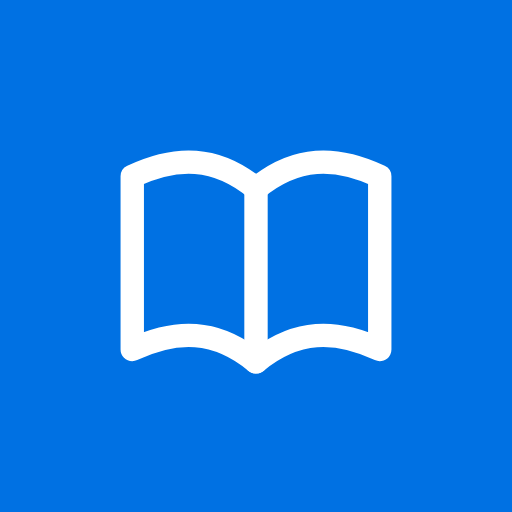
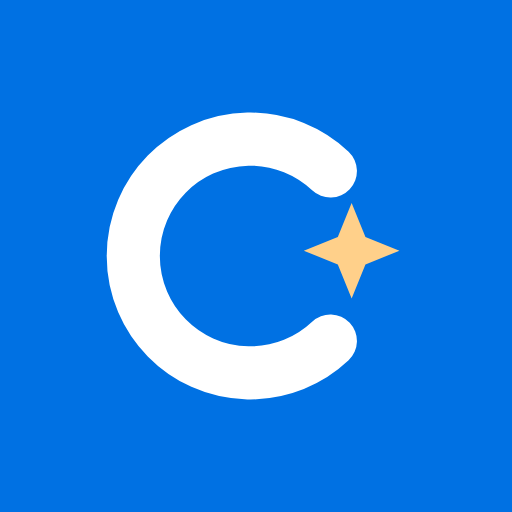
Логотип: ұшқынды «С» белгісі, белгішелер мен сілтеме карточкасы жаңартылды
Claude-Session: https://claude.ai/code/session_015ZnKadnVZH76tpYWXPujyB

Changed region(s): [[0.1875, 0.2188, 0.7812, 0.7812]]

diff --git a/public/admin.html b/public/admin.html
@@ -47,7 +47,7 @@ tr.flag td { background: var(--warn-bg); }
 <header class="nav">
   <div class="wrap">
     <a class="brand" href="/">
-      <svg viewBox="0 0 24 24" fill="none" stroke="currentColor" stroke-width="1.8" stroke-linecap="round" stroke-linejoin="round" aria-hidden="true"><path d="M3 6.2v12.6c3.2-1.5 6.1-1.5 9 .9 2.9-2.4 5.8-2.4 9-.9V6.2c-3.2-1.5-6.1-1.5-9 .9-2.9-2.4-5.8-2.4-9-.9z"/><path d="M12 7.1v12.6"/></svg>
+      <svg viewBox="0 0 64 64" aria-hidden="true"><path d="M46 16a22 22 0 1 0 0 32" fill="none" stroke-width="10" stroke-linecap="round" style="stroke:var(--accent)"/><path d="M50 22l2.6 6.4L59 31l-6.4 2.6L50 40l-2.6-6.4L41 31l6.4-2.6z" fill="#FF9F0A"/></svg>
       Сабақтас
     </a>
     <div class="right"><button class="pill ghost sm" type="button" id="refresh" hidden>Жаңарту</button><button class="textbtn" type="button" id="logout" hidden>Шығу</button></div>

diff --git a/public/samples.html b/public/samples.html
@@ -84,7 +84,7 @@
 <header class="nav">
   <div class="wrap">
     <a class="brand" href="/">
-      <svg viewBox="0 0 24 24" fill="none" stroke="currentColor" stroke-width="1.8" stroke-linecap="round" stroke-linejoin="round" aria-hidden="true"><path d="M3 6.2v12.6c3.2-1.5 6.1-1.5 9 .9 2.9-2.4 5.8-2.4 9-.9V6.2c-3.2-1.5-6.1-1.5-9 .9-2.9-2.4-5.8-2.4-9-.9z"/><path d="M12 7.1v12.6"/></svg>
+      <svg viewBox="0 0 64 64" aria-hidden="true"><path d="M46 16a22 22 0 1 0 0 32" fill="none" stroke-width="10" stroke-linecap="round" style="stroke:var(--accent)"/><path d="M50 22l2.6 6.4L59 31l-6.4 2.6L50 40l-2.6-6.4L41 31l6.4-2.6z" fill="#FF9F0A"/></svg>
       Сабақтас
     </a>
     <nav class="links" aria-label="Мәзір"><a href="/">Басты бет</a><a href="/samples" aria-current="page">Тегін үлгілер</a></nav>

diff --git a/public/oferta.html b/public/oferta.html
@@ -21,7 +21,7 @@
 </head>
 <body>
 <header class="nav"><div class="wrap">
-  <a class="brand" href="/"><svg viewBox="0 0 24 24" fill="none" stroke="currentColor" stroke-width="1.8" stroke-linecap="round" stroke-linejoin="round" aria-hidden="true"><path d="M3 6.2v12.6c3.2-1.5 6.1-1.5 9 .9 2.9-2.4 5.8-2.4 9-.9V6.2c-3.2-1.5-6.1-1.5-9 .9-2.9-2.4-5.8-2.4-9-.9z"/><path d="M12 7.1v12.6"/></svg>Сабақтас</a>
+  <a class="brand" href="/"><svg viewBox="0 0 64 64" aria-hidden="true"><path d="M46 16a22 22 0 1 0 0 32" fill="none" stroke-width="10" stroke-linecap="round" style="stroke:var(--accent)"/><path d="M50 22l2.6 6.4L59 31l-6.4 2.6L50 40l-2.6-6.4L41 31l6.4-2.6z" fill="#FF9F0A"/></svg>Сабақтас</a>
   <div class="right"><a class="pill sm" href="/app">Кабинет</a></div>
 </div></header>
 

diff --git a/public/privacy.html b/public/privacy.html
@@ -21,7 +21,7 @@
 </head>
 <body>
 <header class="nav"><div class="wrap">
-  <a class="brand" href="/"><svg viewBox="0 0 24 24" fill="none" stroke="currentColor" stroke-width="1.8" stroke-linecap="round" stroke-linejoin="round" aria-hidden="true"><path d="M3 6.2v12.6c3.2-1.5 6.1-1.5 9 .9 2.9-2.4 5.8-2.4 9-.9V6.2c-3.2-1.5-6.1-1.5-9 .9-2.9-2.4-5.8-2.4-9-.9z"/><path d="M12 7.1v12.6"/></svg>Сабақтас</a>
+  <a class="brand" href="/"><svg viewBox="0 0 64 64" aria-hidden="true"><path d="M46 16a22 22 0 1 0 0 32" fill="none" stroke-width="10" stroke-linecap="round" style="stroke:var(--accent)"/><path d="M50 22l2.6 6.4L59 31l-6.4 2.6L50 40l-2.6-6.4L41 31l6.4-2.6z" fill="#FF9F0A"/></svg>Сабақтас</a>
   <div class="right"><a class="pill sm" href="/app">Кабинет</a></div>
 </div></header>
 

diff --git a/public/index.html b/public/index.html
@@ -83,7 +83,7 @@ footer .wrap > span:last-child { display: flex; flex-wrap: wrap; gap: 4px; }
 <header class="nav">
   <div class="wrap">
     <a class="brand" href="/">
-      <svg viewBox="0 0 24 24" fill="none" stroke="currentColor" stroke-width="1.8" stroke-linecap="round" stroke-linejoin="round" aria-hidden="true"><path d="M3 6.2v12.6c3.2-1.5 6.1-1.5 9 .9 2.9-2.4 5.8-2.4 9-.9V6.2c-3.2-1.5-6.1-1.5-9 .9-2.9-2.4-5.8-2.4-9-.9z"/><path d="M12 7.1v12.6"/></svg>
+      <svg viewBox="0 0 64 64" aria-hidden="true"><path d="M46 16a22 22 0 1 0 0 32" fill="none" stroke-width="10" stroke-linecap="round" style="stroke:var(--accent)"/><path d="M50 22l2.6 6.4L59 31l-6.4 2.6L50 40l-2.6-6.4L41 31l6.4-2.6z" fill="#FF9F0A"/></svg>
       Сабақтас
     </a>
     <div class="right">

diff --git a/public/app.html b/public/app.html
@@ -123,7 +123,7 @@ form.stack .pill { width: 100%; margin-top: 4px; }
 <header class="nav">
   <div class="wrap">
     <a class="brand" href="/">
-      <svg viewBox="0 0 24 24" fill="none" stroke="currentColor" stroke-width="1.8" stroke-linecap="round" stroke-linejoin="round" aria-hidden="true"><path d="M3 6.2v12.6c3.2-1.5 6.1-1.5 9 .9 2.9-2.4 5.8-2.4 9-.9V6.2c-3.2-1.5-6.1-1.5-9 .9-2.9-2.4-5.8-2.4-9-.9z"/><path d="M12 7.1v12.6"/></svg>
+      <svg viewBox="0 0 64 64" aria-hidden="true"><path d="M46 16a22 22 0 1 0 0 32" fill="none" stroke-width="10" stroke-linecap="round" style="stroke:var(--accent)"/><path d="M50 22l2.6 6.4L59 31l-6.4 2.6L50 40l-2.6-6.4L41 31l6.4-2.6z" fill="#FF9F0A"/></svg>
       Сабақтас
     </a>
     <div class="right">

diff --git a/public/assets/base.css b/public/assets/base.css
@@ -36,7 +36,7 @@ img { max-width: 100%; }
 .nav .wrap { height: 52px; display: flex; align-items: center; gap: 20px; }
 .brand { display: flex; align-items: center; gap: 8px; color: var(--fg); font-family: var(--display); font-weight: 700; font-size: 16px; letter-spacing: -0.01em; white-space: nowrap; }
 .brand:hover { text-decoration: none; }
-.brand svg { width: 20px; height: 20px; }
+.brand svg { width: 24px; height: 24px; }
 .nav .right { margin-left: auto; display: flex; align-items: center; gap: 14px; min-width: 0; }
 .nav .who { color: var(--fg-2); font-size: 13.5px; white-space: nowrap; overflow: hidden; text-overflow: ellipsis; max-width: 32vw; }
 
